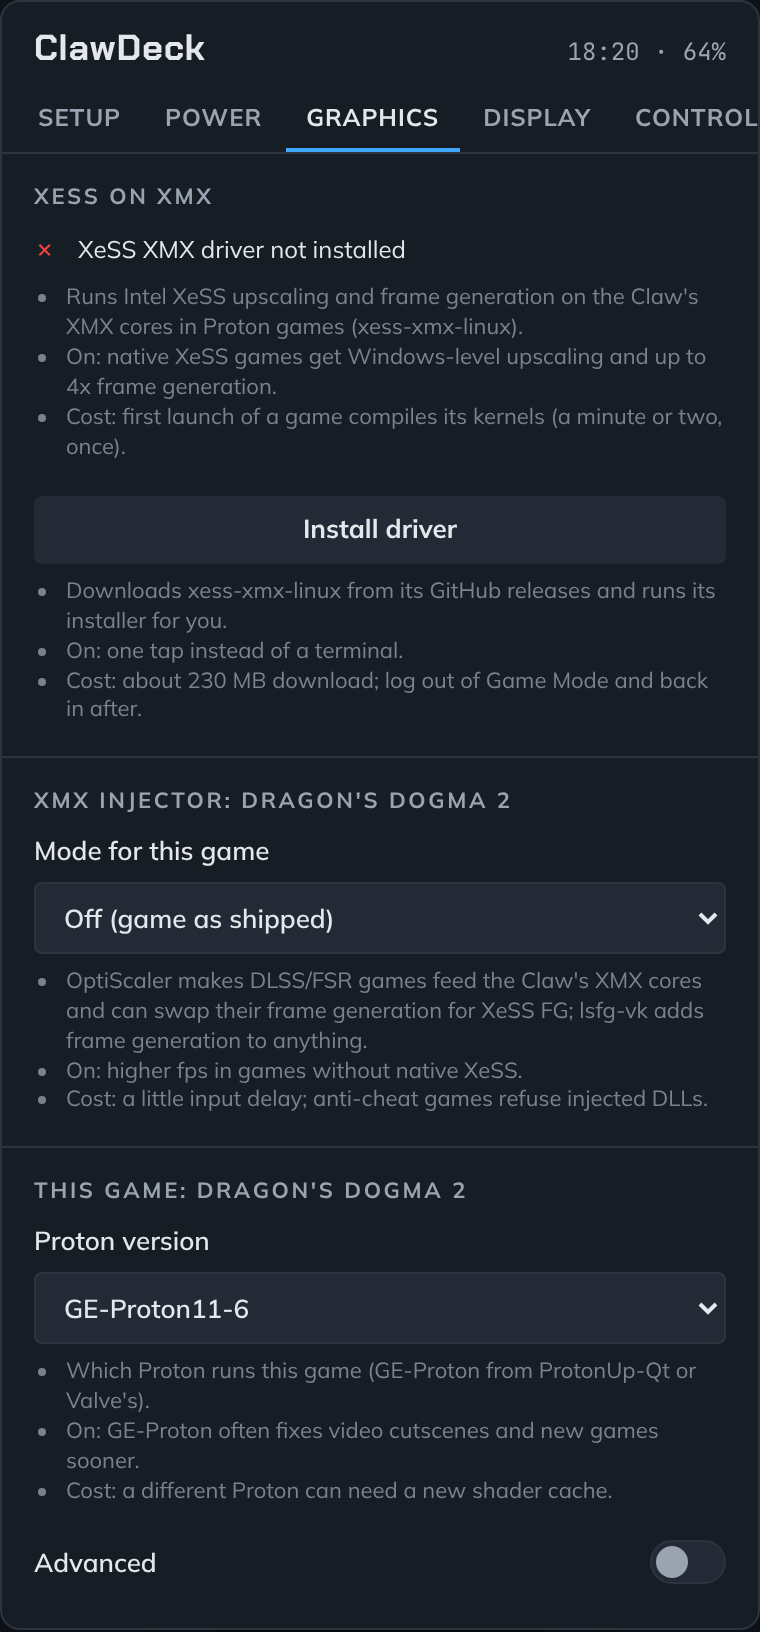
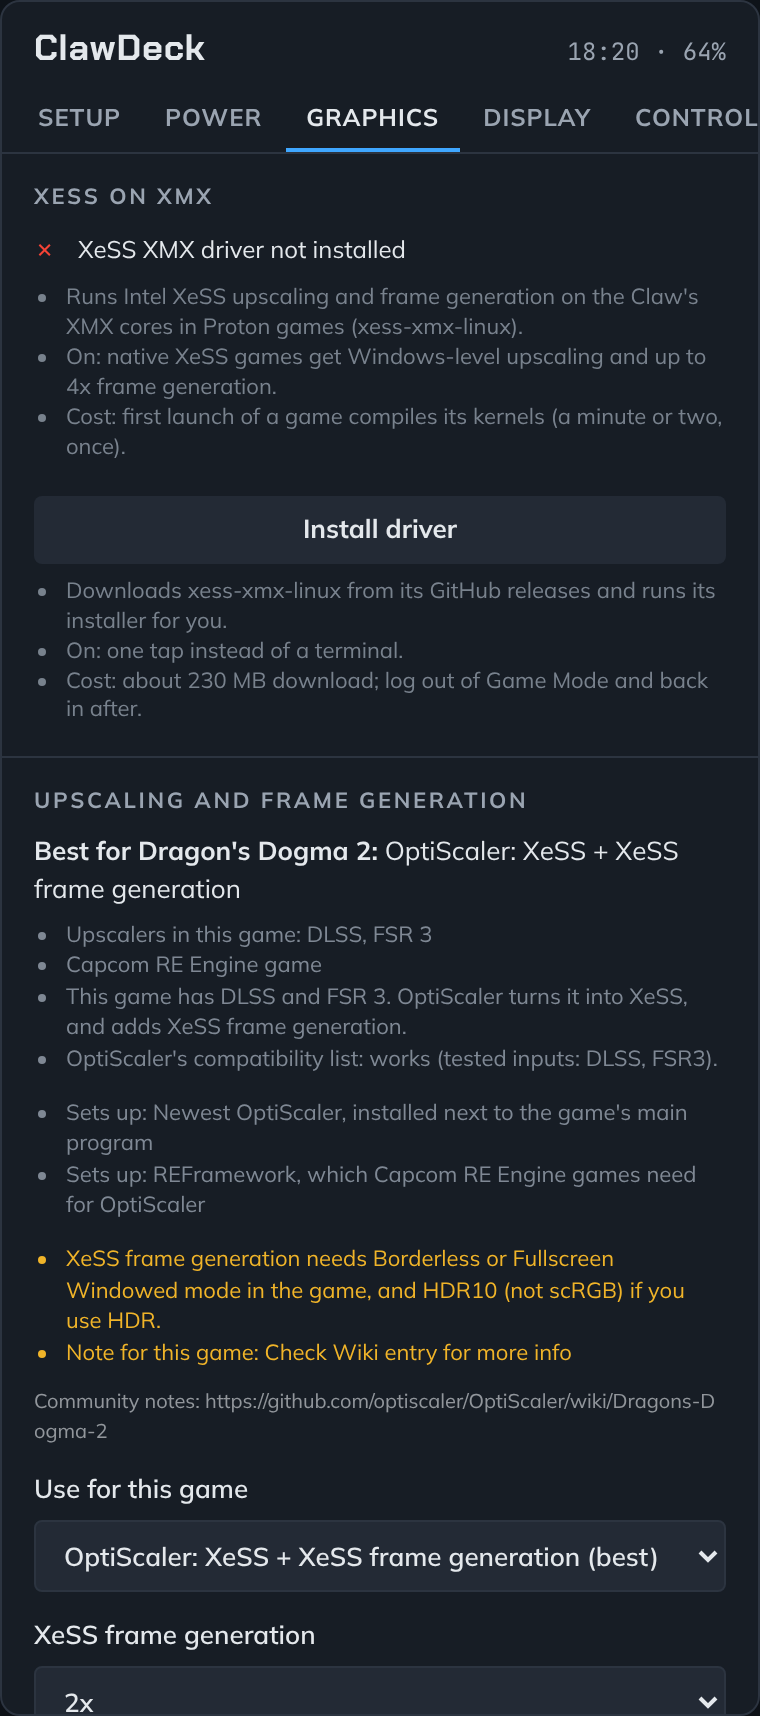
docs: per-game OptiScaler / Lossless Scaling in README, FAQ on XMX and Lossless ownership, credits, design, status; screenshots
Claude-Session: https://claude.ai/code/session_01XS45jD5WJVTkNPaWHwVS7K

diff --git a/README.md b/README.md
@@ -39,7 +39,7 @@ there you can:
 
 - switch between **Battery, Performance and Dock** power with one tap,
 - let **Autotune** find the lowest power each game needs,
-- run **XeSS on the Claw's XMX cores**, even in games that only ship DLSS or FSR,
+- run **XeSS on the Claw's XMX cores**, even in games that only ship DLSS or FSR, set up automatically per game,
 - set a **battery charge limit** so your battery lasts for years,
 - see at a glance **what's working and what isn't**, with a one-tap fix.
 
@@ -74,7 +74,10 @@ too.
 | Feature | What it does | Good to know |
 |---|---|---|
 | **XeSS on XMX** | Installs the [xess-xmx-linux](https://github.com/HHHHanasak1/xess-xmx-linux) driver in one tap, so games with XeSS get full-quality upscaling and frame generation, as on Windows. | The first launch of each game takes a minute or two to prepare, once. |
-| **XMX injector** | For games without XeSS. **OptiScaler** makes DLSS or FSR games use XeSS. **lsfg-vk** adds frame generation to any game. | Adds a little input delay. Online games with anti-cheat refuse it. |
+| **Best option per game** | ClawDeck checks what each game ships (DLSS, FSR, XeSS), looks it up in OptiScaler's community compatibility list, and recommends one thing, with the reasons. | Online games with anti-cheat are left alone: changed game files can get accounts banned. |
+| **OptiScaler, set up for you** | For DLSS or FSR games: one tap installs the newest OptiScaler, so the game uses XeSS on the XMX cores plus XeSS frame generation (2x to 4x). It also adds **OptiPatcher** when the game is supported, **REFramework** for Capcom RE Engine games, and the game's known fixes. | XeSS frame generation needs Borderless or Fullscreen Windowed mode. Adds a little input delay. |
+| **Lossless Scaling** | The last option, for games with no DLSS, FSR or XeSS: frame generation through lsfg-vk. ClawDeck installs lsfg-vk and checks that Lossless Scaling is in your Steam library. | You need your own copy of [Lossless Scaling](https://store.steampowered.com/app/993090/Lossless_Scaling/) (a paid Steam app). It runs on the GPU's regular shader cores, not the XMX cores. |
+| **Always up to date** | Checks once a day for new OptiScaler, OptiPatcher, REFramework and lsfg-vk versions, and updates your games right after you close them. | Can be turned off under Updates. |
 | **Proton version** | Pick which Proton runs a game, such as GE-Proton. | Same as the game's Properties → Compatibility, just closer to hand. |
 | **Add to launch options** | One tap adds ClawDeck to a game's launch options, which Autotune, the injector and HDR need. | Keeps anything you already had there. |
 
@@ -129,6 +132,14 @@ overclocks: every value stays inside what the Claw's hardware allows.
 TDP limit off while ClawDeck manages power. Steam's frame limit is fine to use: set Autotune's target to the same
 number.
 
+**What are the XMX cores, and what runs on them?** They are the Arc GPU's AI units. XeSS upscaling and XeSS frame
+generation run on them (with the XeSS driver from the Graphics tab). Lossless Scaling's frame generation is a regular
+GPU program and runs on the shader cores instead, which is why ClawDeck only suggests it when a game has nothing
+OptiScaler can use.
+
+**Do I have to buy Lossless Scaling?** Only for the Lossless Scaling option. lsfg-vk is free, but it uses the frame
+generation from your own copy of Lossless Scaling on Steam. OptiScaler and XeSS need nothing extra.
+
 **Bazzite also offers OptiScaler and Lossless Scaling plugins. Which should I use?** Either one, but only one per
 game. ClawDeck spots the others and won't overwrite a game they've set up.
 
@@ -153,7 +164,8 @@ fix button in Setup. It saves a hardware report you can post in an issue.
 ## Thanks
 
 ClawDeck stands on the work of Handheld Daemon, InputPlumber, PowerStation, PowerControl, SimpleDeckyTDP,
-xess-xmx-linux, OptiScaler, lsfg-vk, Decky Loader and Bazzite. The full list is in [CREDITS.md](CREDITS.md).
+xess-xmx-linux, OptiScaler, OptiPatcher, REFramework, lsfg-vk and Lossless Scaling, Decky Loader and Bazzite. The
+per-game OptiScaler setup follows OptiClick's approach on Windows. The full list is in [CREDITS.md](CREDITS.md).
 
 ## Support
 

diff --git a/docs/DESIGN.md b/docs/DESIGN.md
@@ -14,7 +14,11 @@ py_modules/clawdeck/
    battery.py   status, plugged detection, charge limit 50–100 (HHD for 70–95, sysfs for the rest)
    profiles.py  per-game JSON, battery/plugged slots, import/export
    autotune.py  1 Hz sampler (MangoHud CSV, RAPL, /proc/stat), classifier, hysteresis controller, CSV log
-   injector.py  OptiScaler / lsfg-vk per game, backups, INI editing, asset staging, lsfg-vk detection
+   injector.py  per-game plan (native XeSS -> OptiScaler -> lsfg-vk), OptiScaler install like setup_linux.sh +
+                OptiPatcher / REFramework / INI fixes, exact undo, lsfg-vk layer install
+   gamescan.py  what a game ships: upscalers, frame generation, engine, anti-cheat (file names only)
+   compat.py    OptiScaler's compatibility list + OptiPatcher's supported exes, cached a day
+   updates.py   newest OptiScaler / OptiPatcher / REFramework / lsfg-vk, checked once a day
    launchenv.py per-game <runtime>/launch/<appid>.env: injector, DXVK_HDR, MESA= (read by clawdeck-launch.sh)
    health.py    checks + one-tap bug report (fixes run through main.run_fix)
    controller.py  HHD controllers.claw.* / rgb.handheld.*, discovered from HHD's settings schema
@@ -39,6 +43,19 @@ The backend never polls. The frontend registers Steam's own notifications and fo
 `GameSessions.RegisterForAppLifetimeNotifications` (game start/stop), `System.RegisterForBatteryStateChanges`
 (eACState 2 = AC, 1 = battery: the running game switches profile slot), `System.RegisterForOnResumeFromSuspend`
 (re-apply charge limit and the running game). Timers exist only while autotune runs for a game or a benchmark records.
+
+## Per-game upscaling (OptiClick for the Claw)
+For the running game the backend scans the install folder, looks the game up in OptiScaler's compatibility list
+and in OptiPatcher's source, and returns one plan with its reasons. Order: the game's own XeSS (nothing to install;
+XMX with the xess-xmx-linux driver) → OptiScaler when the game has DLSS or FSR and the list doesn't mark it broken
+(XeSS SR + XeFG; FG input = the game's own DLSS-FG / FSR-FG / XeFG, else the upscaler; Dxgi spoofing only for
+DLSS-only games without OptiPatcher; InterpolationCount 3x with the XeSS driver, 2x without; no XeFG in Vulkan
+games) → lsfg-vk for everything else. Anti-cheat folders block it. The install copies the whole release next to the
+main exe, takes the first free proxy name, writes WINEDLLOVERRIDES through the launch wrapper (plus dinput8 for
+REFramework), and lists every file in .clawdeck-inject.json for an exact undo. Updates: upstream is asked at most
+once a day; a newer release is downloaded after a game closes and that game is reinstalled with the same options.
+lsfg-vk needs Lossless Scaling (Steam 993090): the frontend checks ownership with appStore, installs it with
+Installs.OpenInstallWizard or opens its store page. lsfg-vk runs on shader cores; only XeSS uses XMX.
 
 ## Who owns what
 Handheld Daemon keeps its own state (TDP, fans, controller, RGB, its charge limit) and persists it; ClawDeck changes
@@ -88,7 +105,9 @@ ClawDeck never starts HHD while InputPlumber runs (two controller daemons fight)
   releases), OptiScaler `Optiscaler_0.9.4-final.20260718._MM.7z`, XeSS SDK `XeSS_SDK_3.0.2.zip`. OptiScaler.ini keys
   checked against 0.9.4 (`FGInput`/`FGOutput=xefg`, no `FGType`). Still open: whether the XeSS SDK 3.x DLLs work
   with the xess-xmx-linux shim (its kernel map is for 2.0.2.68) — pin 2.x if not.
-- Bazzite Portal now offers OptiScaler and Lossless Scaling Decky plugins: detect them and defer per game rather
-  than inject twice.
+- Bazzite Portal offers OptiScaler (Decky Framegen) and Lossless Scaling (decky-lsfg-vk) plugins: detected and
+  named; a game they set up is left alone.
+- On the Claw: the OptiScaler overlay (Insert) shows XeSS + XeFG in Dragon's Dogma 2 with REFramework; OptiPatcher
+  shows "(OP)" in a supported UE game; lsfg-vk in a game without an upscaler; 7z or bsdtar present on Bazzite.
 - Intel's official Proton path: the built-in `libxess.dll` location inside a Proton build that carries PR 10289.
 - `/sys/devices/system/cpu/cpuidle/low_power_idle_system_residency_us` present on Panther Lake.

diff --git a/CREDITS.md b/CREDITS.md
@@ -13,8 +13,15 @@ ClawDeck orchestrates other people's work. Read, learned from, and called — no
 - **[xess-xmx-linux](https://github.com/HHHHanasak1/xess-xmx-linux)** — XeSS super resolution and frame generation on
   XMX under Proton; ClawDeck installs, probes and switches its drivers.
 - **[OptiScaler](https://github.com/optiscaler/OptiScaler)** — DLSS/FSR → XeSS and XeSS frame generation injection.
+  ClawDeck installs it the way its `setup_linux.sh` does and reads its community
+  [compatibility list](https://github.com/optiscaler/OptiScaler/wiki/Compatibility-List) for per-game notes and fixes.
+- **[OptiPatcher](https://github.com/optiscaler/OptiPatcher)** — DLSS inputs on Intel and AMD without spoofing, in
+  supported games.
+- **[REFramework](https://github.com/praydog/REFramework)** — needed by OptiScaler in Capcom RE Engine games.
+- **[OptiClick](https://github.com/onehoon/OptiClick)** — the Windows one-click OptiScaler installer whose approach
+  (newest release, per-game modules and fixes, Intel XeFG at 3x) ClawDeck follows. No code is shared.
 - **[lsfg-vk](https://lsfg-vk.dev)** — Lossless Scaling frame generation as a Vulkan layer (needs the user's own
-  Lossless Scaling purchase).
+  [Lossless Scaling](https://store.steampowered.com/app/993090/Lossless_Scaling/) purchase).
 - **[gamescope-session](https://github.com/ChimeraOS/gamescope-session)** — the environment variables the Display
   tab writes (`ADAPTIVE_SYNC`, `CUSTOM_REFRESH_RATES`, `ENABLE_GAMESCOPE_HDR`, `GAMESCOPE_HDR_NITS`).
 - **[Bazzite](https://github.com/ublue-os/bazzite)** / Universal Blue — the image this is built and tested on.

diff --git a/STATUS.md b/STATUS.md
@@ -16,8 +16,10 @@ fake sysfs trees and a fake Handheld Daemon, and the UI typechecks and builds in
 | Profile import/export | `profiles.py` | Power → Advanced | JSON on Desktop; import from Desktop/Downloads, never overwrites |
 | Autotune | `autotune.py` | Power | pauses on any manual change; saved TDP clamped to the current ceiling |
 | Benchmark | `benchmark.py` | Power → Advanced | avg fps, 1 % low, watts, fps/W; CSV export |
-| XMX injector: OptiScaler | `injector.py` | Graphics | download from GitHub releases, backup/undo |
-| XMX injector: lsfg-vk | `injector.py`, `launchenv.py` | Graphics | `LSFGVK_ENV=1` + multiplier/flow/performance per game |
+| Per-game recommendation | `gamescan.py`, `compat.py`, `injector.plan` | Graphics | native XeSS → OptiScaler → lsfg-vk, with reasons; anti-cheat blocked |
+| OptiScaler, OptiClick-style | `injector.py`, `updates.py` | Graphics | newest release, setup_linux.sh layout, OptiPatcher, REFramework, per-game INI fixes |
+| Lossless Scaling (lsfg-vk) | `injector.py`, `updates.py` | Graphics | lsfg-vk v2 installed/updated; Lossless Scaling ownership checked in Steam |
+| Always up to date | `updates.py`, `main._after_game` | Graphics → Updates | daily check; games refreshed after they close |
 | Per-game launch env | `launchenv.py`, `tools/clawdeck-launch.sh` | Graphics | injector, `DXVK_HDR`, `MESA=` choice; merges user DLL overrides |
 | XeSS driver | `xess.py`, `downloads.py` | Graphics | xess-xmx-linux state, install from fork release, probe, default Mesa |
 | Proton picker | `proton.py` + `SteamClient.Apps.SpecifyCompatTool` | Graphics | Steam stays owner of config.vdf |
